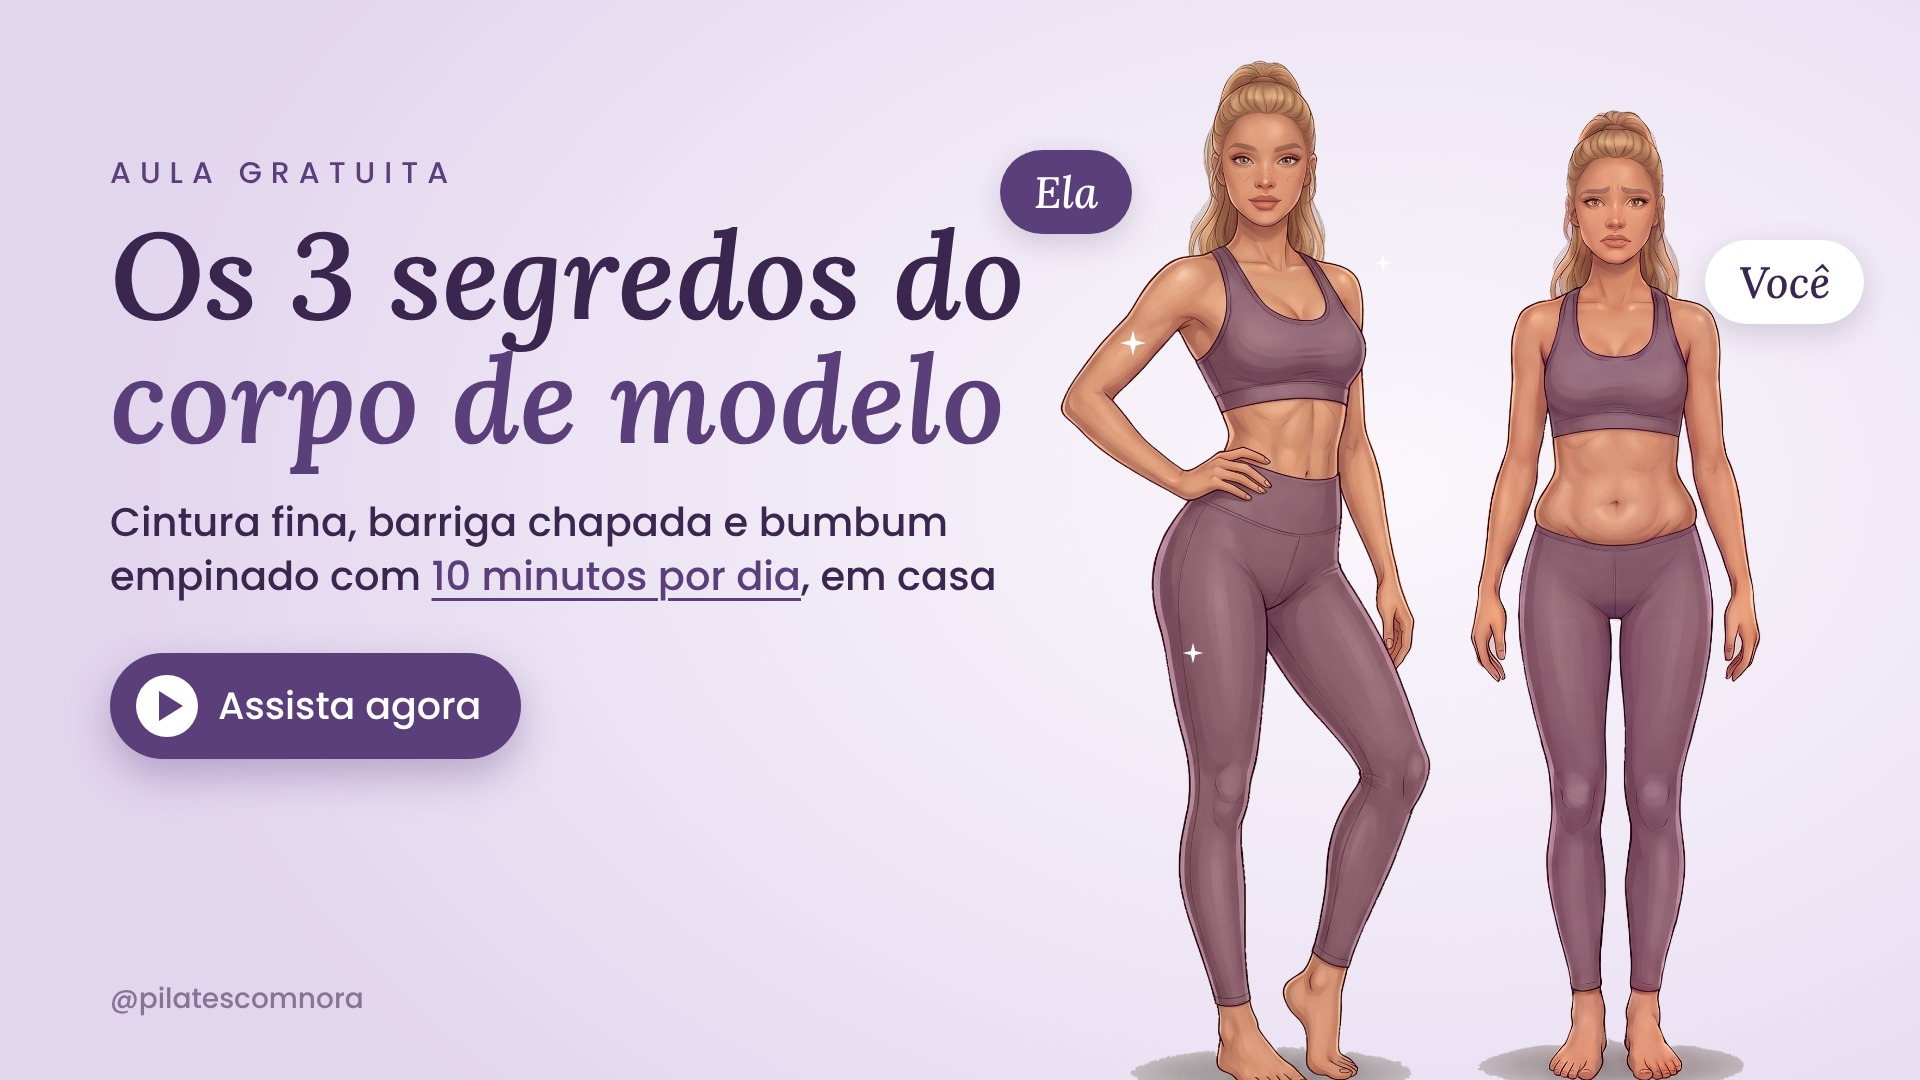
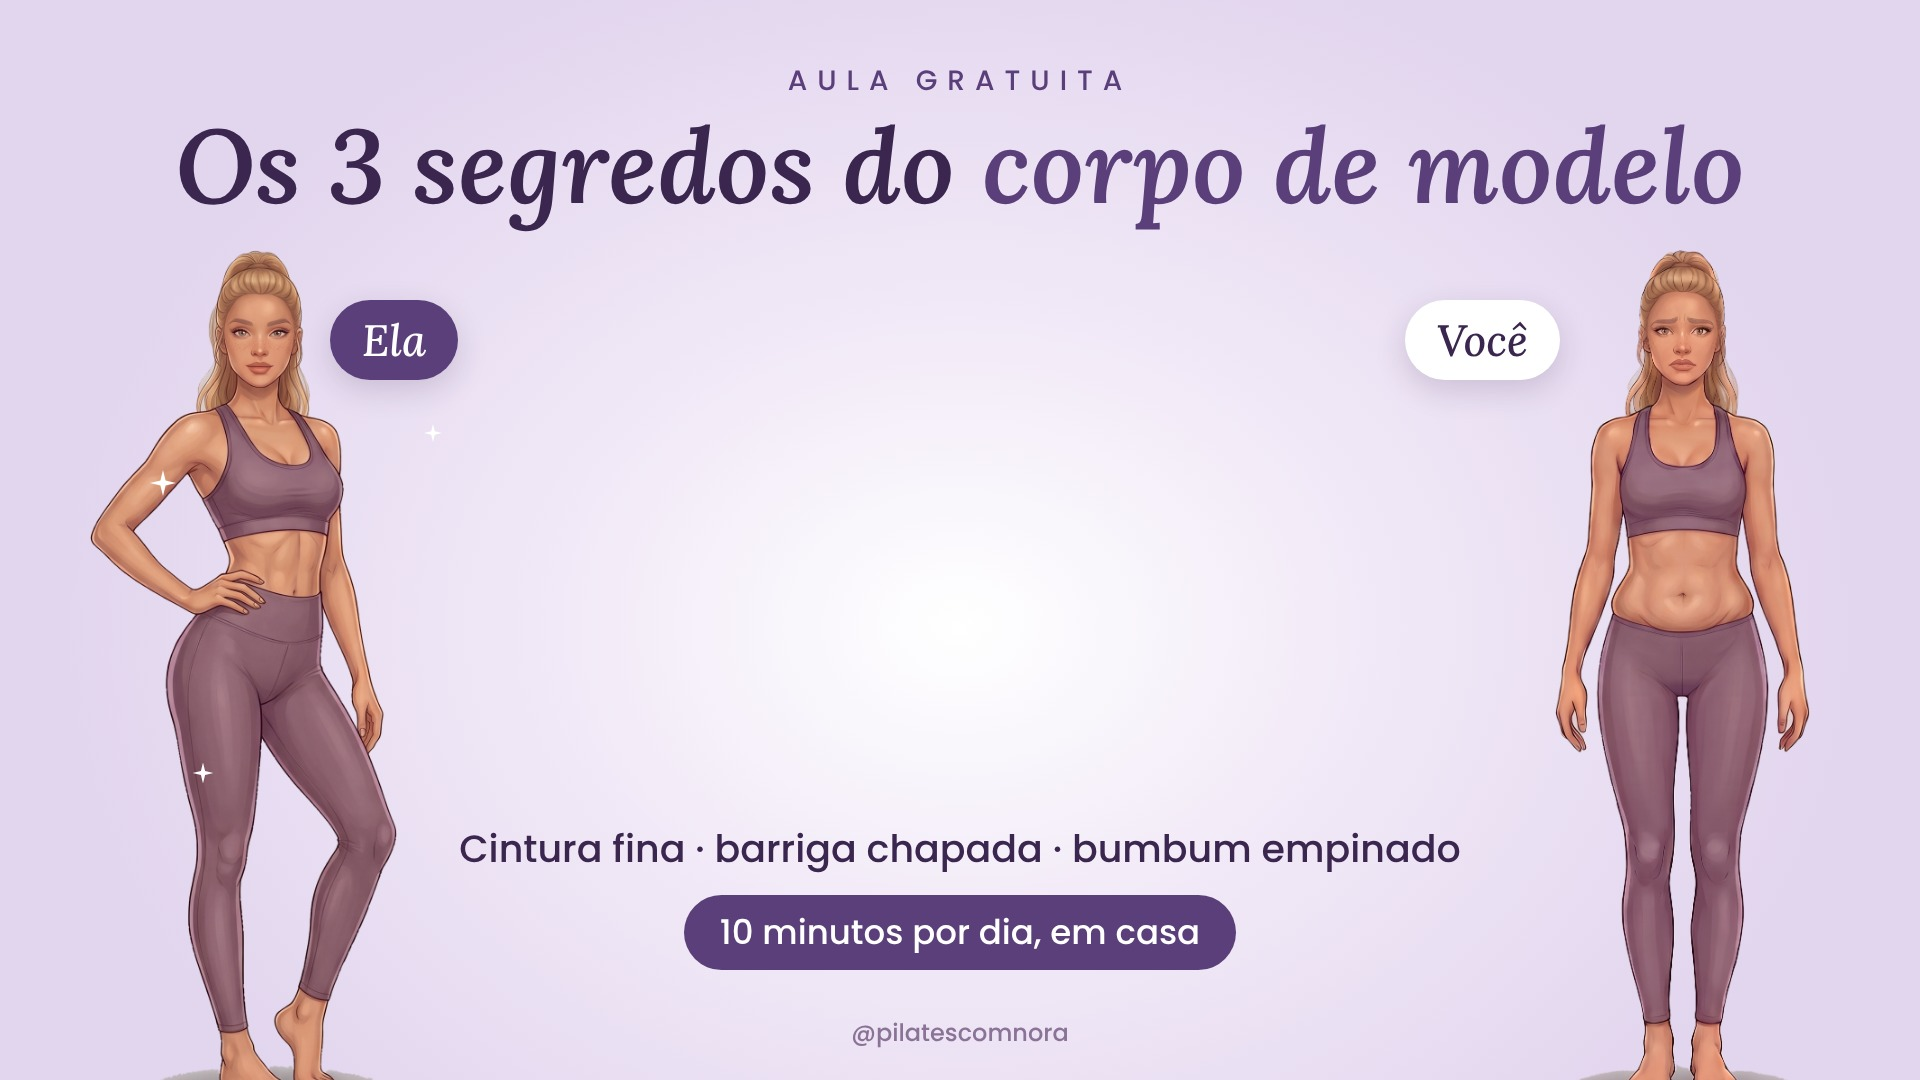
Thumbnail leaves the center free for the player's play button; ?botao=1 test link no longer remembers the button
Claude-Session: https://claude.ai/code/session_013MZVTMRmN3oWiidYxSX7vV

diff --git a/public/desafio.html b/public/desafio.html
@@ -71,11 +71,11 @@
   var src = new URLSearchParams(location.search).get('src') || '';
   var shown = false;
 
-  function show() {
+  function show(remember) {
     if (shown) return; shown = true;
     cta.hidden = false;
     requestAnimationFrame(function () { requestAnimationFrame(function () { cta.classList.add('show'); }); });
-    try { localStorage.setItem(SEEN_KEY, '1'); } catch (e) {}
+    if (remember) try { localStorage.setItem(SEEN_KEY, '1'); } catch (e) {}
     if (window.va) window.va('event', { name: 'desafio_cta_shown', src: src });
   }
 
@@ -86,12 +86,15 @@
     if (typeof d === 'string') { try { d = JSON.parse(d); } catch (x) { return; } }
     if (!d || typeof d !== 'object') return;
     var time = Number(d.currentTime != null ? d.currentTime : d.time);
-    if (/timeupdate/i.test(String(d.message || d.event || d.type || '')) && time >= REVEAL_AT) show();
+    if (/timeupdate/i.test(String(d.message || d.event || d.type || '')) && time >= REVEAL_AT) show(true);
   });
 
-  // Back for a second visit, or testing with ?botao=1: show it right away.
+  // Back after watching up to the call to action: show it right away.
+  // ?botao=1 shows it for a quick test without remembering it; ?botao=0 forgets it on this phone.
+  var q = new URLSearchParams(location.search).get('botao');
+  if (q === '0') try { localStorage.removeItem(SEEN_KEY); } catch (e) {}
   var seen = false; try { seen = localStorage.getItem(SEEN_KEY) === '1'; } catch (e) {}
-  if (seen || new URLSearchParams(location.search).get('botao') === '1') show();
+  if (seen || q === '1') show(false);
 
   // Checkout link comes from the site settings (Vercel: STRIPE_LINK_DESAFIO).
   Aira.config().then(function (c) {
